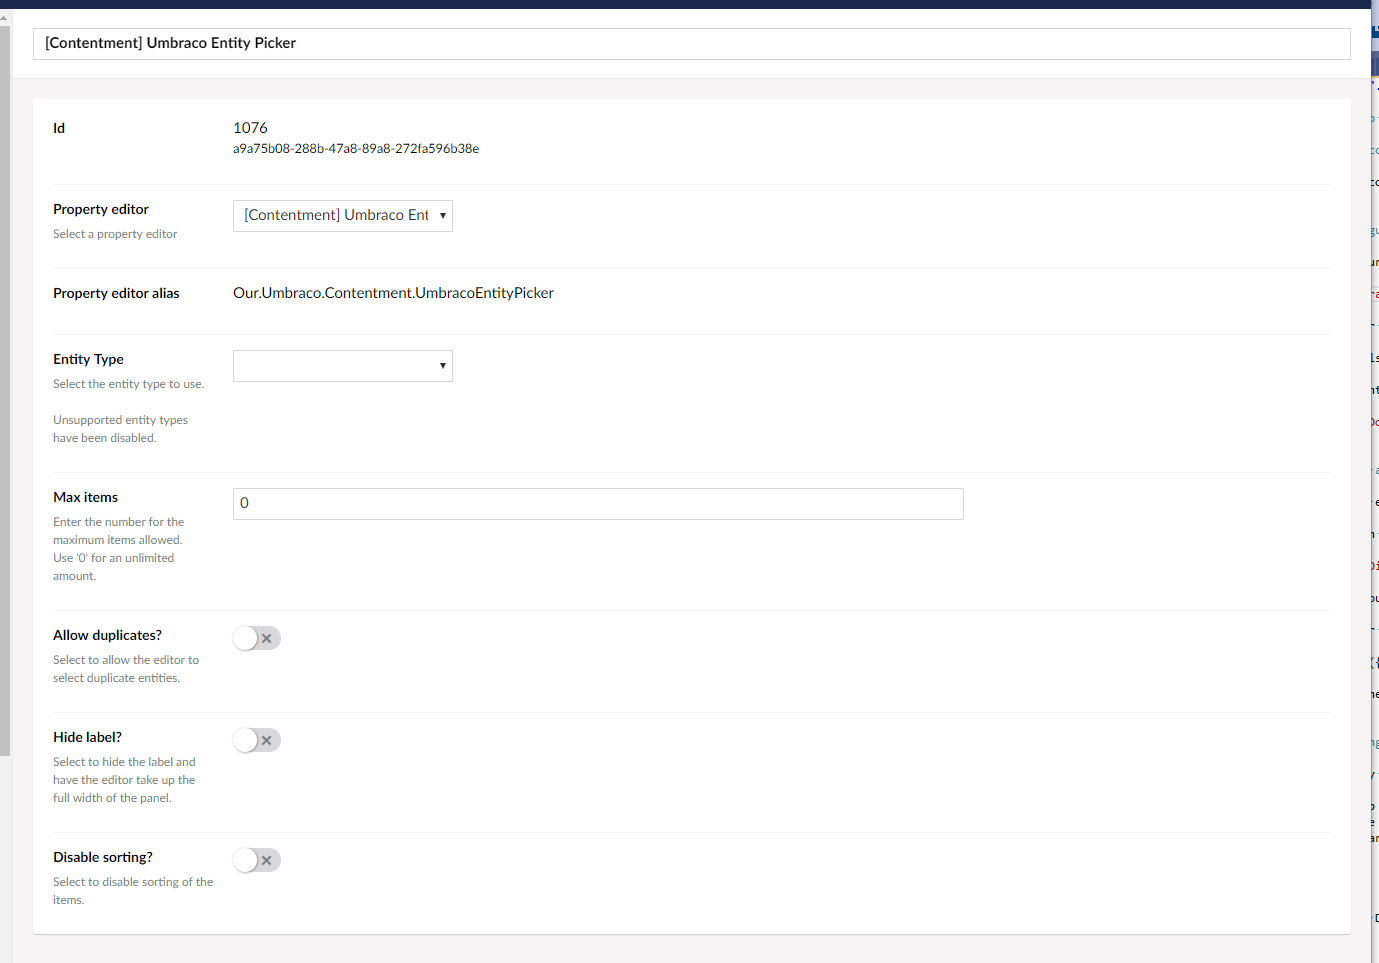
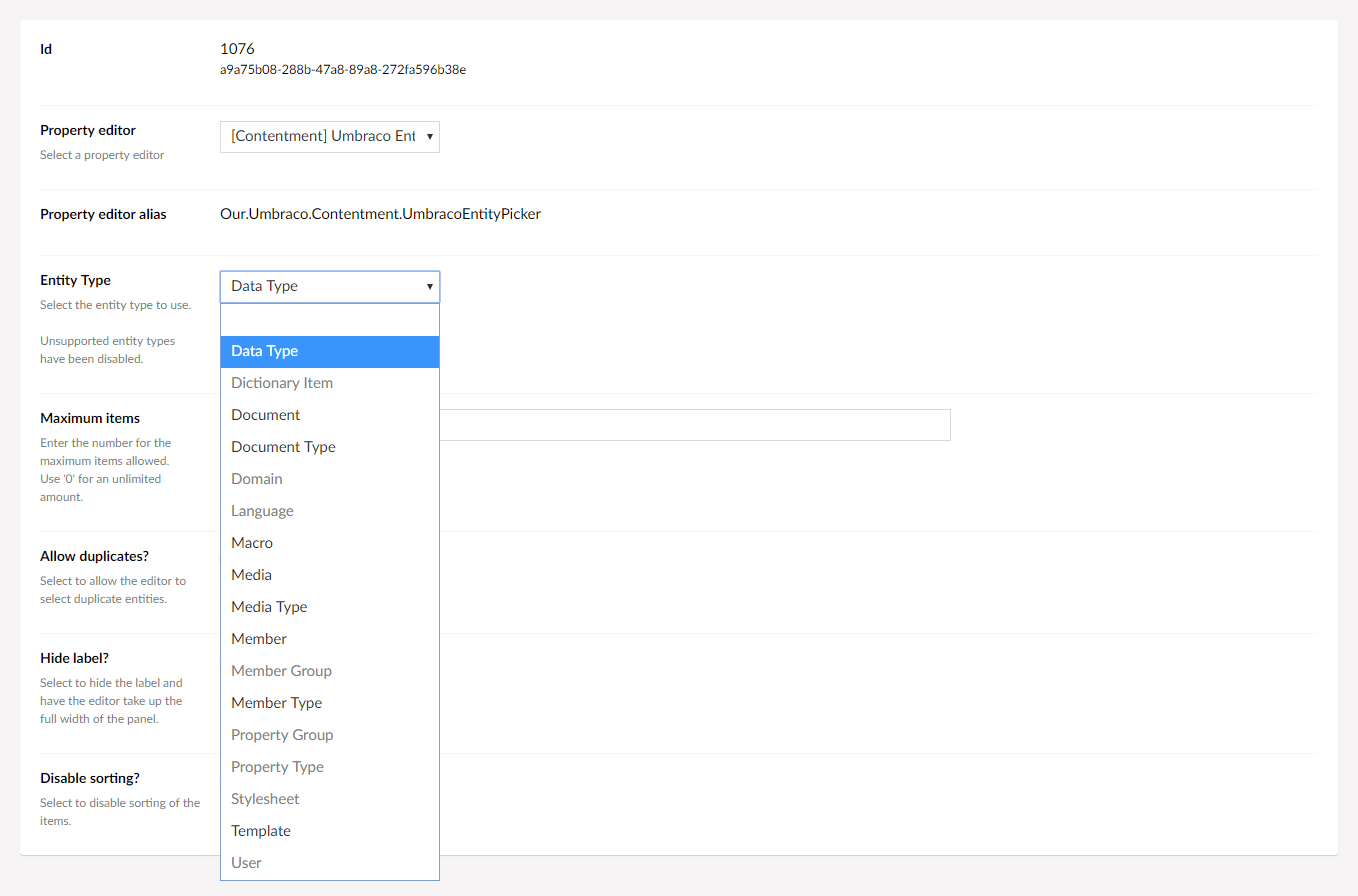
[WIP] Documentation updates

diff --git a/docs/data-editors/umb-entity-picker.md b/docs/data-editors/umb-entity-picker.md
@@ -1,76 +1,47 @@
-<img src="../assets/img/logo.png" alt="Umbraco Contentment Logo" title="A shoebox of Umbraco happiness." height="130" align="right">
+<img src="file:///../assets/img/logo.png" alt="Umbraco Contentment Logo" title="A shoebox of Umbraco happiness." height="130" align="right">
 
 ## Umbraco Contentment
 
 ### Umbraco Entity Picker
 
-[A single paragraph introduction for the data editor.]
-
-The Umbraco Entity Picker property editor is a property editor that lets you select one or more entities from an Umbraco entity type.
+Umbraco Entity Picker is a property editor that lets you select one or more entities from an Umbraco entity type.
 
 
-### How to configure the editor
+### How to configure the editor?
 
-[A few sentences about the configuration editor + screenshots]
+Once you have created a new Data Type and selected the "[Contentment] Umbraco Entity Picker" option, you will see the following configuration fields.
 
-To configure an Umbraco entity picker you will want to create a data type in the Umbraco back-office choosing '[Contentment] Umbraco Entity Picker' from the property editor dropdown options.
+![Configuration Editor for Umbraco Entity Picker](file:///umb-entity-picker--configuration-editor.png)
 
-![Configuration Editor](umb-entity-picker--configuration-editor.png)
+The main field is "**Entity Type**", from here you can select the entity type that you'd like to pick entities from.
 
-From there choose the 'Entity Type' that you'd like to pick entities from.
+> The entity type options are populated from Umbraco's [`UmbracoEntityTypes`](https://github.com/umbraco/Umbraco-CMS/blob/release-8.0.2/src/Umbraco.Web/Models/ContentEditing/UmbracoEntityTypes.cs) enumeration.
 
-You can also set the maximum number of items to be able to pick if required, along with options to disable sorting and hiding the property label.
-
-With an Umbraco entity picker data type defined, finish off the configuration by adding it to the desired document type definition.
-
-![Add to Document Type](umb-entity-picker--document-type.png)
+You can also set the maximum number of items to be able to pick if required, along with options to allow duplicate selections, disable sorting and hiding the property label.
 
 
-// TODO: You got up to here [LK]
+### How to use the editor?
+
+Once you have added the configured Data Type to your Document Type, the Umbraco Entity Picker will be displayed on the content page's property panel.
+
+Using the entity picker should feel familiar, as it reuses Umbraco's content picker UI.
+
+To pick an entity, press the "Add" link to open the picker's overlay panel. This will display a list of entities which you can select from. You can also filter the items using the search box at the top of the panel.
+
+![Configuration Editor for Umbraco Entity Picker](file:///umb-entity-picker--property-editor.png)
+
+Once you have selected items, you will be able to sort by dragging the entities into the desired order.
 
 
-### How to use the editor
-
-[A few sentences about how to use the editor itself + screenshots]
-
-Using the entity picker should be pretty fimilar as it aims to mimic the content picker as closely as possible.
-
-To pick an entity click the 'Add' link to launch the picker dialog. The dialog should present a pagniated list of entities to pick from. If any searchable fields have been configured for the entity type, you can also perform a search by typing a search term in the search input field.
-
-![Picker Dialog]({{ site.baseurl }}/img/picker-dialog.png)
-
-To pick your items simply click on the entity names and then click 'Select' in the bottom right hand corner.
-
-The picker should display a summary of the selected entities and can be sorted by dragging the selected entities into the desired order.
-
-![Picker]({{ site.baseurl }}/img/picker.png)
-
-To save the value either save or save and publish the current document.
-
-
-### How to get the value
+### How to get the value?
 
 [A few sentences about how to get the value + value converter / models builder info]
 
 [Include a code sample.]
 
-The entity picker property editor comes with a built in [value converter](https://our.umbraco.org/documentation/extending/property-editors/value-converters) meaning that whenever you retrieve the property value from Umbraco it will return the actual selected entities.
-
 ````csharp
 // Example
-foreach(var p in Model.Content.People.Cast<Person>()){
+foreach(var item in Model.Whatever){
     ...
 }
 ````
-
-**Note:** Due to the fact that the property editor can link to any entity type, the returned value type from the value converter will be `IEnumerable<object>` and so will require the entities to be cast to the desired concrete type.
-
-
-
-### How to configure as a Parameter Editor
-
-[Add a coulple of sentences on how to configure this editor as a Parameter Editor.]
-
-[Include a code snippet.]
-[Take inspiration from: https://our.umbraco.com/packages/developer-tools/parameter-editor-generator/]
-[https://our.umbraco.com/packages/backoffice-extensions/tinymce-for-macro-parameters/]

diff --git a/docs/README.md b/docs/README.md
@@ -26,7 +26,9 @@ Here is the documentation for the Contentment property editors...
 
 
 > _[Work In Progress]_
+> 
 > All of these editors will require you to have knowledge of how to create a new Data Type and Document Type in Umbraco.
+> 
 > Documentation, guides and tutorials on how to do this are widely available, I wont be repeating them for each individual property-editor instructions.
 > 
 > If you would like to know how to add a Data Editor to your content, please see the Umbraco documentation:
@@ -34,5 +36,12 @@ Here is the documentation for the Contentment property editors...
 > https://our.umbraco.com/Documentation/Getting-Started/Data/
 > 
 > Specifically...
+> 
 > https://our.umbraco.com/Documentation/Getting-Started/Data/Defining-content/
 > https://our.umbraco.com/Documentation/Getting-Started/Data/Data-Types/index-v8
+> 
+> 
+> _[Value Converters]_
+> Each property editor will come with its own value converter.
+> for more info: https://our.umbraco.org/documentation/extending/property-editors/value-converters
+

diff --git a/docs/data-editors/notes.md b/docs/data-editors/notes.md
@@ -4,9 +4,10 @@
 
 ### Notes
 
-The Notes property editor is used to makes use of the rich-text editor to display instructional messages for content editors.
+Notes is a property editor that can be used to display rich-text instructional messages for content editors.
 
 > This property editor has taken inspiration from the community package, [uEditorNotes](https://our.umbraco.com/packages/backoffice-extensions/ueditornotes/) by Marc Goodson (and its predecessor [uComponents Notes](http://ucomponents.github.io/data-types/notes/) by Matt Brailsford).
+> 
 > If you are looking for further configuration options, _such as making the notes collapsible or displayed within a sliding panel_, then I'd heartily recommend using the [uEditorNotes](https://our.umbraco.com/packages/backoffice-extensions/ueditornotes/) package!
 
 
